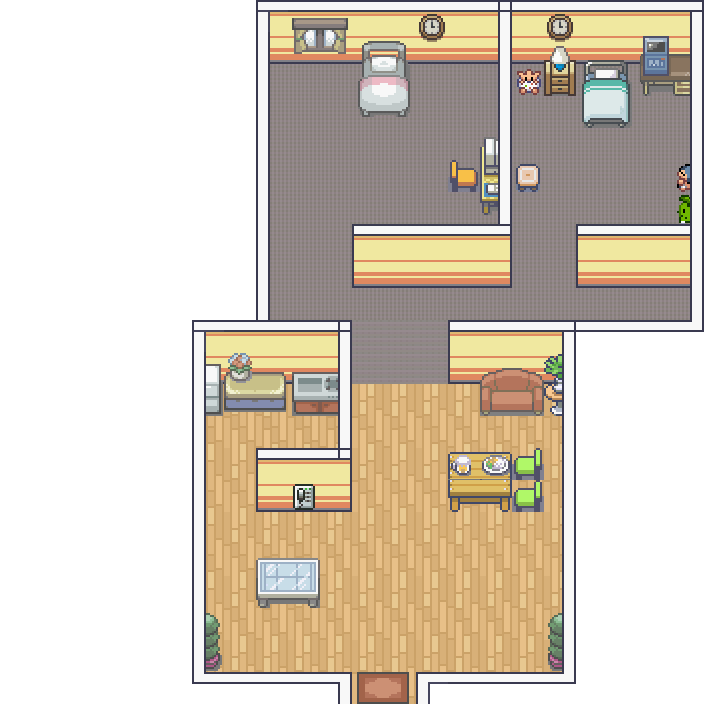
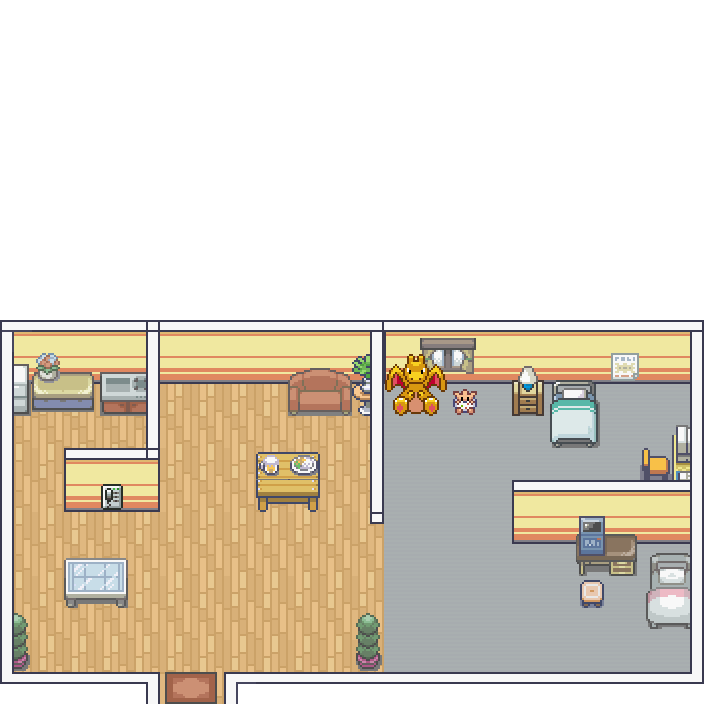
fin des intérieurs

diff --git a/index.js b/index.js
@@ -43,9 +43,16 @@ window.addEventListener('DOMContentLoaded', function () {
     office.src = "img/interieur_git.png";
     const retraining = new Image();
     retraining.src = 'img/reconversion.png';
-
     const contact = new Image();
     contact.src = 'img/contact_me.png';
+    const grangeOne= new Image();
+    grangeOne.src = 'img/grange.png'
+    const mainHouse= new Image();
+    mainHouse.src = 'img/maison_principale.png'
+    const house= new Image();
+    house.src = 'img/maison.png'
+    const bigHouse= new Image();
+    bigHouse.src='img/maison_principale.png'
 
 
 
@@ -150,6 +157,12 @@ window.addEventListener('DOMContentLoaded', function () {
             height: 700,
         },
         // fences
+        {
+            x: 2130,
+            y: 650,
+            width: 200,
+            height: 80,
+        },
         {
             x: 900,
             y: 1270,
@@ -625,6 +638,264 @@ window.addEventListener('keydown', function (e) {
                 h: 100,
             },
             
+        ], [
+            {
+                //left
+                x: 1170,
+                y: 1640,
+                w: 20,
+                h: 300,
+            },
+            {
+                //up
+                x: 1170,
+                y: 1620,
+                w: 340,
+                h: 20,
+            },
+            {
+                //left
+                x: 1480,
+                y: 1640,
+                w: 20,
+                h: 300,
+            },
+            {
+                //right down
+                x: 1380,
+                y: 1900,
+                w: 200,
+                h: 40,
+            },
+            {
+                //left down
+                x: 1100,
+                y: 1900,
+                w: 200,
+                h: 40,
+            },
+            {
+                //object
+                x: 1200,
+                y: 1750,
+                w: 80,
+                h: 40,
+            },
+            {
+                //object
+                x: 1350,
+                y: 1640,
+                w: 50,
+                h: 60,
+            },
+            {
+                //object
+                x: 1260,
+                y: 1640,
+                w: 40,
+                h: 60,
+            },
+            {
+                //object
+                x: 1370,
+                y: 1780,
+                w: 60,
+                h: 40,
+            },
+        ], 
+        [
+            // litl house
+            {
+                // left
+                x: 1490,
+                y: 1280,
+                w: 20,
+                h: 380,   
+            },
+            {
+                // in wall
+                x: 1635,
+                y: 1280,
+                w: 20,
+                h: 150,   
+            },
+            {
+                // in wall
+                x: 1570,
+                y: 1410,
+                w: 80,
+                h: 25,   
+            },
+            {
+                // in wall
+                x: 1570,
+                y: 1450,
+                w: 60,
+                h: 20,   
+            },
+            {
+                // Couch
+                x: 1720,
+                y: 1400,
+                w: 115,
+                h: 35,   
+            },
+            {
+                // table
+                x: 1770,
+                y: 1510,
+                w: 50,
+                h: 50,   
+            },
+            {
+                // tree
+                x: 1640,
+                y: 1600,
+                w: 20,
+                h: 20,   
+            },
+            {
+                // up
+                x: 1490,
+                y: 1280,
+                w: 400,
+                h: 50,   
+            },
+            {
+                // down left
+                x: 1490,
+                y: 1630,
+                w: 170,
+                h: 20,   
+            },
+            {
+                // down right
+                x: 1735,
+                y: 1630,
+                w: 170,
+                h: 20,   
+            },
+            {
+                // right
+                x: 1890,
+                y: 1280,
+                w: 20,
+                h: 380,   
+            }
+        ],
+        [
+            {
+                // wall left
+                x: 1830,
+                y: 1300,
+                w: 20,
+                h: 320,   
+            },
+            {
+                // wall right
+                x: 2510,
+                y: 1300,
+                w: 20,
+                h: 320,   
+            },
+            {
+                // wall down right
+                x: 2050,
+                y: 1620,
+                w: 485,
+                h: 20,   
+            },
+            {
+                // wall room
+                x: 2340,
+                y: 1430,
+                w: 200,
+                h: 25,   
+            },
+            {
+                //  dracaufeu
+                x: 2100,
+                y: 1320,
+                w: 300,
+                h: 25,   
+            },
+            {
+                //  table
+                x: 2090,
+                y: 1400,
+                w: 50,
+                h: 50,   
+            },
+            {
+                //  table
+                x: 1890,
+                y: 1500,
+                w: 50,
+                h: 50,   
+            },
+            {
+                //  tree
+                x: 2180,
+                y: 1565,
+                w: 20,
+                h: 50,   
+            },
+            {
+                //  down left
+                x: 1830,
+                y: 1620,
+                w: 140,
+                h: 20,   
+            },
+            {
+                //  wall room
+                x: 2190,
+                y: 1300,
+                w: 20,
+                h: 180,   
+            },
+            {
+                // bed
+                x: 2380,
+                y: 1320,
+                w: 40,
+                h: 60,   
+            },
+            {
+                // bed
+                x: 2480,
+                y: 1450,
+                w: 40,
+                h: 100,   
+            },
+            {
+                // computeur
+                x: 2395,
+                y: 1450,
+                w: 100,
+                h: 45,   
+            },
+            {
+                // wall inside kitchen
+                x: 1970,
+                y: 1300,
+                w: 20,
+                h: 100,   
+            },
+            {
+                // wall inside kitchen
+                x: 1890,
+                y: 1400,
+                w: 100,
+                h: 20,   
+            },
+            {
+                // wall up
+                x: 1830,
+                y: 1300,
+                w: 700,
+                h: 20,   
+            }
         ]
     ]
    
@@ -759,11 +1030,61 @@ window.addEventListener('keydown', function (e) {
             dph: 400,
 
         }, 
+        {
+            // grange
+            x: 1300,
+            y: 1920,
+            w: 80,
+            h: 10,
+            background: grangeOne,
+            dx: 0,
+            dy: 0,
+            dw: 384,
+            dh: 384,
+            dpx: 1170,
+            dpy: 1570,
+            dpw: 400,
+            dph: 400,
+           
+        },
+        
+        {
+            // litl hous
+            x: 1660,
+            y: 1650,
+            w: 50,
+            h: 10,
+            background: house,
+            dx: 0,
+            dy: 0,
+            dw: 384,
+            dh: 384,
+            dpx: 1500,
+            dpy: 1270,
+            dpw: 400,
+            dph: 400,  
+        },
+        {
+            // litl house
+            x: 1980,
+            y: 1650,
+            w: 50,
+            h: 10,
+            background: bigHouse,
+            dx: 0,
+            dy: 0,
+            dw: 800,
+            dh: 800,
+            dpx: 1825,
+            dpy: 950,
+            dpw: 800,
+            dph: 800,  
+        }
            
     ]
     const player = {
-        x: 2000,
-        y: 1200,
+        x: 1900,
+        y: 1700,
         width: 32,
         height: 32,
         frameX: 0,
@@ -789,7 +1110,7 @@ window.addEventListener('keydown', function (e) {
             }
             if (inHouse === false) {
                 for (let object of blackBoxs) {
-                    ctx.fillStyle = "transparent"
+                    ctx.fillStyle = "black"
                     ctx.fillRect(object.x, object.y, object.width, object.height)
                     createBlackBox()
                 }
@@ -797,7 +1118,7 @@ window.addEventListener('keydown', function (e) {
             if (inHouse === true && indexBluebox === i ){   
                 for ( let j= 0; j<greenBoxsArray.length; j++) {
                     for (let greenBox of greenBoxsArray[i]) {
-                        ctx.fillStyle = 'transparent'
+                        ctx.fillStyle = 'green'
                         ctx.fillRect(greenBox.x, greenBox.y, greenBox.w, greenBox.h) 
                     }
                 for (let greenBox of greenBoxsArray[i]) {
